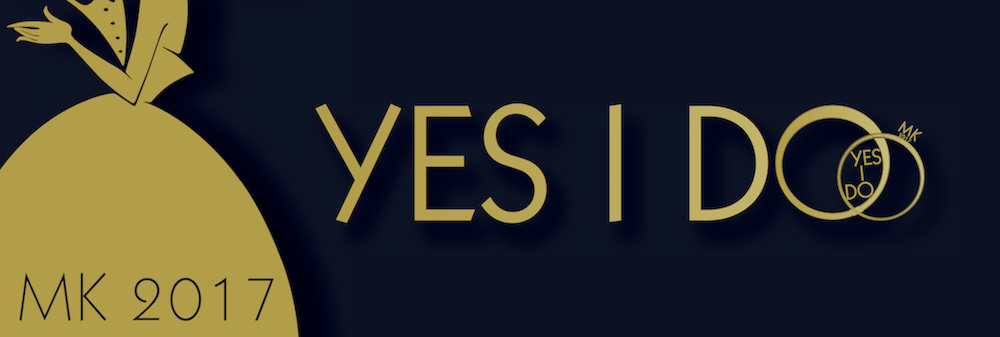
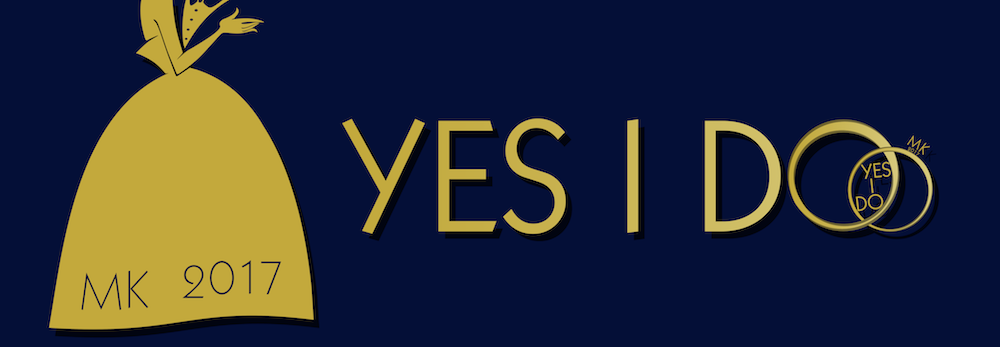
Dummy program section, initial version, dark sponsoring section, updated header.

Changed region(s): [[0.0, 0.0, 0.651, 1.0], [0.682, 0.2967, 0.961, 0.7418]]

diff --git a/_includes/program.html b/_includes/program.html
@@ -1,256 +1,11 @@
 <section id="program" >
   <div class="container">
     <div class="row">
-      <div class="col-lg-12 text-center">
+      <div class="col-lg-8 col-lg-offset-2 text-center">
         <h2 class="section-heading">Program</h2>
         <hr class="dark">
-        <p>Aj túto konferu máme pre teba pripravený super program! Jednotlivé témy a semináre si môžeš pozrieť nižšie. Podrobný rozpis programu nájdeš <a href="/program">tu</a>.</p>
-
-        <br />
-
-        <p class="text-faded"><a href="/program" class="btn btn-primary wow page-scroll">Rozpis Programu</a></p>
-
-        <br />
-        <h3>Rečníci</h3>
-        <hr class="dark">
-
-        <div class="text-with-image pic-left col-xs-12">
-          <img src="img/program/slacho.jpg" class="img-responsive col-sm-3 col-xs-12" alt="" />
-          <div class="col-sm-9 col-xs-12"><p>
-            <span class="seminar-title">Máte nové správy</span><br />
-            Samo Lacho / piatok večer<br />
-            <br />
-            Čo to s vami robí, keď na svojom zariadení vidíte tento nápis?<br />
-            Čo vás vedie k tomu, aby ste venovali pozornosť novým správam a tešili sa z nich?<br />
-            Ako máte nastavené PRAVIDLÁ UPOZORNENÍ vo svojom kresťanskom softvéri?<br />
-            Akú váhu majú vo vašom živote Božie správy?<p>
-
-            <br />
-            <span class="seminar-title">Znie to jednoducho</span><br />
-            Samo Lacho / sobota ráno<br />
-            <br />
-            Čo ak aj chcem, no stále mi to nejde a nič mi to nedáva?<br />
-            Čo ak tomu stále nerozumiem?<br />
-            Ako sa môže z irelevantného textu stať živé slovo?<br />
-            Ako sa dá porozumieť Božím správam?<br />
-          </div>
-        </div>
-
-        <div class="text-with-image pic-left col-xs-12">
-          <img src="img/program/buhrin.jpg" class="img-responsive col-sm-3 col-xs-12" alt="" />
-          <div class="col-sm-9 col-xs-12"><p>
-            <span class="seminar-title">Bez kľúča zatvorené</span><br />
-            Ben Uhrin / sobota večer<br />
-            <br />
-            Čo je kľúčom k počutiu a porozumeniu Božieho hlasu?<br />
-            Poznáš tento kľúč? Hovorí Boh aj k tebe?<br />
-            Je opovážlivejšie načúvať Bohu, či žiť akoby nehovoril?<br />
-            <br />
-            <span class="seminar-title">ZISTÍŠ KEĎ TO PRÍDE?</span><br />
-            Ben Uhrin / nedeľa ráno<br />
-            <br />
-          </div>
-        </div>
-
-        <br />
-        <h3>Semináre</h3>
-        <hr class="dark">
-
-        <div class="text-with-image pic-left col-xs-12">
-          <img src="img/seminars/speakers/manonym.jpg" class="img-responsive col-sm-3 col-xs-12" alt="" />
-          <div class="col-sm-9 col-xs-12"><p>
-            <span class="seminar-title">Čo to máš v ruke?</span><br />
-            Pali Mrština<br />
-            <br />
-            Hospodin sa spýtal a Mojžiš odpovedal: Palicu. Po prekonaní pochybností - vierou a poslušnosťou - sa stáva obyčajný predmet v ruke Božieho služobníka "nástrojom" sprevádzajúcim záchranu národa i "zbraňou" spoluúčinkujúcou pri porážke armád.<br />
-            A čo máš v ruke ty ?<br />
-            Inšpirovaní biblickými postavami budeme hľadať ako každodenné veci a viera môžu zmeniť naše vzťahy aj život.<br />
-            <br />
-            O autorovi: Ukecaný vedúci popradskej mládeže.<p>
-          </div></div>
-
-        <div class="text-with-image pic-left col-xs-12">
-          <img src="img/seminars/speakers/msonoga.jpg" class="img-responsive col-sm-3 col-xs-12" alt="" />
-          <div class="col-sm-9 col-xs-12"><p>
-            <span class="seminar-title">Moje reakcie na stres</span><br />
-            Marek Sonoga<br />
-            <br />
-            Môžem žiť bez stresu ? Asi nie.<br />
-            Ak teda nie, ako reagujem na stresovú situáciu ?<br />
-            <br />
-            O autorovi: Misijný pracovník BJB v Poprade.<p></div></div>
-
-
-        <div class="text-with-image pic-left col-xs-12">
-          <img src="img/seminars/speakers/mtobak.jpg" class="img-responsive col-sm-3 col-xs-12" alt="" />
-          <div class="col-sm-9 col-xs-12"><p>
-            <span class="seminar-title">Inšpirácia Biblie</span><br />
-            Martin Tobák<br />
-            <br />
-            Ako vieme, že Biblia je inšpirovaná?<br />
-            Predstavuje Biblia sama seba ako dôveryhodný zdroj?<br />
-            Aké sú dôkazy, že Biblia je inšpirovaná?<br />
-            Prečo veríte, že Biblia je inšpirovaná?<br />
-            <br />
-            O autorovi: Kazateľ BJB Nesvady<p></div>
-        </div>
-
-
-        <div class="text-with-image pic-left col-xs-12">
-          <img src="img/seminars/speakers/rnagypal.jpg" class="img-responsive col-sm-3 col-xs-12" alt="" />
-          <div class="col-sm-9 col-xs-12">
-            <p>
-              <span class="seminar-title">Vstal Ježiš z mŕtvych?</span><br />
-              Richard Nagypal<br />
-              <br />
-              Ak Ježiš vstal z mŕtvych, potom musíme prijať všetko čo hovoril. Ak nevstal, tak načo sa ním vôbec zaoberať? Otázka, na ktorej všetko stojí nie je či sa nám Ježiš páči alebo nie, či je múdry, alebo nie, ale či vstal z mŕtvych. Na tomto seminári budeme hovoriť o historických dôkazoch pre centrálnu udalosť kresťanskej viery - vzkriesenie Ježiša z Nazaretu.<br />
-              <br />
-              O autorovi: Študujúci teológ. Tvorca diskusii a priestoru pre dialóg. Zakladateľ projektu Animans. Kresťan so snahou porozumieť Bohu vo svete a svetu vo svetle Boha.
-            <p>
-          </div>
-        </div>
-
-        <div class="text-with-image pic-left col-xs-12">
-          <img src="img/seminars/speakers/phanes.jpg" class="img-responsive col-sm-3 col-xs-12" alt="" />
-          <div class="col-sm-9 col-xs-12">
-            <p>
-              <span class="seminar-title">Deduktívne štúdium Biblie</span><br />
-              Pavel Hanes<br />
-              <br />
-              K štúdiu Biblie je potrebné pristupovať pomocou všeobecne platných právd viery odvodených z poznania Biblie ako celku. Tieto univerzálne platné presupozície (axiómy, doktríny, články viery) informujú a usmerňujú štúdium Biblie tak, že postupujeme od univerzálne platných tvrdení k vysvetleniu jednotlivých textov (→ dedukcia).<br />
-              <br />
-              O autorovi: Pavel Hanes (61) vyučuje na evanjelikálnej teologickej katedre v B. Bystrici teológiu Hebrejskej Biblie, systematickú teológiu, apologetiku a filozofiu pre teológov.
-            <p>
-          </div>
-        </div>
-
-        <div class="text-with-image pic-left col-xs-12">
-          <img src="img/seminars/speakers/mpatarak.jpg" class="img-responsive col-sm-3 col-xs-12" alt="" />
-          <div class="col-sm-9 col-xs-12">
-            <p>
-              <span class="seminar-title">Viera a duševné zdravie</span><br />
-              Michal Patarák<br />
-              <br />
-              Duševné zdravie je klinicky ťažko uchopiteľný termín. Je skôr dejom, procesom, akousi dynamikou, než jasne opísateľným stavom. Jeho analýza, i keď nie jednoduchá, má však zmysel i mimo pole psychiatrie. Zaujímavá je otázka prieniku viery a duševného zdravia a s ňou súvisiace problémy duševných porúch u veriaceho človeka, ich modifikovaného priebehu, či dokonca genézy duševných porúch pri nesprávne chápaných a patologických formách viery. Seminár by mal prispeiť k destigmatizácii duševných porúch vo veriacom a cirkevnom prostredí.<br />
-              <br />
-              O autorovi: Psychiater a ašpirant na neuropsychiatriu. Na fakulte Zdravotníctva SZU vyučuje odbor psychiatria. Zaoberá sa závislosťami, etickými súvislosťami psychiatrie, ľudskou sexualitou a hraničnými neuropsychiatrickými stavmi.
-            <p>
-          </div>
-        </div>
-
-        <!-- <div class="text-with-image pic-left col-xs-12">
-        <img src="img/seminars/speakers/mtobak.jpg" class="img-responsive col-sm-3 col-xs-12" alt="" />
-        <div class="col-sm-9 col-xs-12"><p>
-        Rasťo Majer<p></div>
-        </div> -->
-
-        <div class="text-with-image pic-left col-xs-12">
-          <img src="img/seminars/speakers/dhanesova.jpg" class="img-responsive col-sm-3 col-xs-12" alt="" />
-          <div class="col-sm-9 col-xs-12">
-            <p>
-              <span class="seminar-title">Má niekto právo byť mojou autoritou?</span><br />
-              Danka Hanesová<br />
-              <br />
-              Pozývam tých, ktorí chcete spoločne skúmať, čo nám vadí na autoritách, či a prečo majú vôbec niektorí ľudia právo na to byť mojou autoritou. Musia mi vôbec v živote rozkazovať nejaké autority? A ak áno, tak aké autority by sme si "priali"? Hovorí niečo Biblia na túto tému? Plánoval Boh nejaké autority, keď chcel dobro pre človeka?<br />
-              <br />
-            <p>
-          </div>
-        </div>
-
-
-        <div class="text-with-image pic-left col-xs-12">
-          <img src="img/seminars/speakers/mmacak.jpg" class="img-responsive col-sm-3 col-xs-12" alt="" />
-          <div class="col-sm-9 col-xs-12">
-            <p>
-              <span class="seminar-title">Osobnosť človeka a duchovný život</span><br />
-              Marek Macák<br />
-              <br />
-              Aký vplyv má to, aký si typ osobnosti na tvoj vzťah k Bohu, druhým i k sebe.<br />
-              <br />
-              O autorovi: psychológ pracujúci na psychiatrickej klinike, slovák žijúci v Prahe, učiteľ na ETS, ...
-            <p>
-          </div>
-        </div>
-
-        <div class="text-with-image pic-left col-xs-12">
-          <img src="img/seminars/speakers/boltiziarovci.jpg" class="img-responsive col-sm-3 col-xs-12" alt="" />
-          <div class="col-sm-9 col-xs-12">
-            <p>
-              <span class="seminar-title">TESTOSTERÓN + ESTROGÉN = ♥</span><br />
-              Kveťo & Eva Boltižiarovci<br />
-              <br />
-              To, že testosterón je hlavne mužský pohlavný hormón (reprezentuje muža) a estrogén je ženský (reprezentuje ženu),
-              je asi všetkým jasné. Otázkou však je: „Čo s nimi a ako sa vysporiadať s ich
-              vplyvom?“ Neboj :) na seminári nebudeme rozoberať chemické vzorce ani vedľajšie
-              účinky možných chemických reakcií. Spoločne sa zameriame na muža a ženu, na
-              vzťah medzi nimi a veci, ktoré sú s týmto jedinečným vzťahom spojené. Budeme
-              hovoriť o zaľúbení, očarení, chodení, láske, kráse, intimite, sexe,
-              pornografii, nástrahách a pokušeniach tohto sveta a o odpovedi, či existuje ten
-              pravý/á a jediný/á....Výber životného partnera je jedno z najdôležitejších
-              životných rozhodnutí, pretože táto voľba následne ovplyvní VŠETKY oblasti
-              Tvojho života. Sme presvedčený, že nie je možné, aby partnerský vzťah skrze
-              Krista, s Kristom a v Kristovi nebol požehnaný a šťastný. Bež za Pánom Ježišom
-              Kristom najrýchlejšie ako vieš, a ak ti niekto bude stíhať, tak sa zoznámte –
-              možno tak nájdeš svojho životného partnera. A budeme radi, keď dobehneš aj na
-              seminár.
-              <br /><br />
-              O autoroch: Kveťo a Eva žijú so svojimi tromi deti neďaleko Bratislavy. Ich životnou vášňou je vidieť
-              generáciu ľudí, ktorí nemrhajú svoje životy, ale žijú pre Krista a Jeho Slávu
-              vo všetkých oblastiach života. Kveťo viac ako 20 rokov pracuje s mladými ľuďmi.
-              Je členom tímu vedúcich mládeže TEEN-Z-ONE v Bratislave. Eva aktuálne „dovolenkuje“
-              na materskej.
-            <p>
-          </div>
-        </div>
-
-        <div class="text-with-image pic-left col-xs-12">
-          <img src="img/seminars/speakers/kazorova.jpg" class="img-responsive col-sm-3 col-xs-12" alt="" />
-          <div class="col-sm-9 col-xs-12"><p>
-            <span class="seminar-title">Poznaj, Miluj, Ži</span><br />
-            Katka Azorová<br />
-            <br />Všade okolo nás je kopa rád a návodov ako sa stať úspešnou a dokonalou ženou. Vyskúšala si už niektoré? Poznáš úspech a neúspech? Zaujíma ťa čo znamená byť úspešnou ženou v Božích očiach? Ak áno, príď na workshop Poznaj, Miluj, Ži a podebatíme o tom.<br />
-            <br />
-            O autorke: Žienka pracujúca aj domáca, matka a kamarátka, ktorá sa snaží nájsť zmysel a rovnováhu vo všetkých rolách, čo jej Boh dal.<p></div></div>
-
-        <div class="text-with-image pic-left col-xs-12">
-          <img src="img/seminars/speakers/jjarosciak.jpg" class="img-responsive col-sm-3 col-xs-12" alt="" />
-          <div class="col-sm-9 col-xs-12">
-            <p>
-              <span class="seminar-title">Žiadostivo nepozrieš</span><br />
-              Jozef Jaroščiak<br />
-              <br />
-              - biblický pohľad na žiadostivosť po opačnom pohlaví<br />
-              - vedecké poznatky o našom tele v spojitosti so žiadostivostou<br />
-              - praktické uplatnenie poznatkov do života kresťana<br />
-              - zameraný pre mužov, ale užitočne pre ženy pre porozumenie mužov.<br />
-              <br />
-              O autorovi: Jozef má 27 rokov. Navštevoval TCKompas školu pre vedúcich v Žiline a hneď potom odišiel študovať na biblickú školu v Dánsku, kde dnes aj učí spolu so svojou manželkou Camillou.
-            <p>
-          </div>
-        </div>
-
-        <div class="text-with-image pic-left col-xs-12">
-          <img src="img/seminars/speakers/pmakovini.jpg" class="img-responsive col-sm-3 col-xs-12" alt="" />
-          <div class="col-sm-9 col-xs-12">
-            <p>
-              <span class="seminar-title">Evanjelizácia & Získavanie Veriacich: Povolanie kresťanov alebo Prežitok minulosti</span><br />
-              Peter Makovíni<br />
-              <br />
-              - Tradičné námietky proti šíreniu evanjelia<br />
-              - Prečo potrebujeme evanjelizáciu vo svete?<br />
-              - Základy etickej evanjelizácie<br />
-              <br />
-              O autorovi: Teológ a študent presvedčivého dizajnu, ktorý pochádza z Bratislavy, ale žije v Dánsku. Tu pracuje ako vedúci mladeže v baptistickom zbore v Odense.
-            <p>
-          </div>
-        </div>
-
-        <p class="text-faded"><a href="/program" class="btn btn-primary wow page-scroll">Rozpis Programu</a></p>
-
+        <p>Aj túto konferu máme pre teba pripravený super program! Jednotlivé témy a workshopy budeme pridávať <a href="{{ site.facebook }}" target="_blank" class="social">sem (<span class="social fa fa-facebook"></span>)</a>, tak pozorne sleduj naše príspevky.</p>
       </div>
     </div>
   </div>
 </section>
-
-<!-- {% include seminars.html %} -->
-

diff --git a/_includes/sponsoring.html b/_includes/sponsoring.html
@@ -1,10 +1,10 @@
-<section id="sponsoring">
+<section id="sponsoring" class="bg-dark">
   <div class="container">
     <div class="row">
       <div class="col-lg-8 col-lg-offset-2 text-center">
         <h2 class="section-heading">Sponzoring</h2>
         <hr class="dark">
-        <p>Milí mládežníci, obraciame sa na Vás s prosbou o pomoc pri zabezpečení MK 2017.<br />
+        <p class="text-faded">Milí mládežníci, obraciame sa na Vás s prosbou o pomoc pri zabezpečení MK 2017.<br />
           Chceli by sme Vás poprosiť o to, aby ste túto konferenciu podporili modlitebne, no tiež aby ste nám pomohli finančne.
           <br /><br />
           Konkrétne by sme Vás chceli poprosiť o pomoc s úhradou výdajov, ktoré súvisia s podporou slúžiacich (strava, ubytovanie, cestovné) a so zabezpečením externých služieb počas konferencie (médiá, externí pracovníci).

diff --git a/_sass/_style.scss b/_sass/_style.scss
@@ -48,7 +48,7 @@
     margin: 0 auto;
 
     .header-content-inner {
-      height: 337px;
+      height: 347px;
       width: 100%;
       background-image: url(../img/header.png);
       background-position: center;

diff --git a/css/main.scss b/css/main.scss
@@ -35,7 +35,7 @@
 
 // variables.less
 $theme-primary: rgb(186, 158, 71);
-$theme-dark: rgb(2, 10, 31);
+$theme-dark: rgb(0, 6, 53);
 
 // Import partials from `sass_dir` (defaults to `_sass`)
 @import
